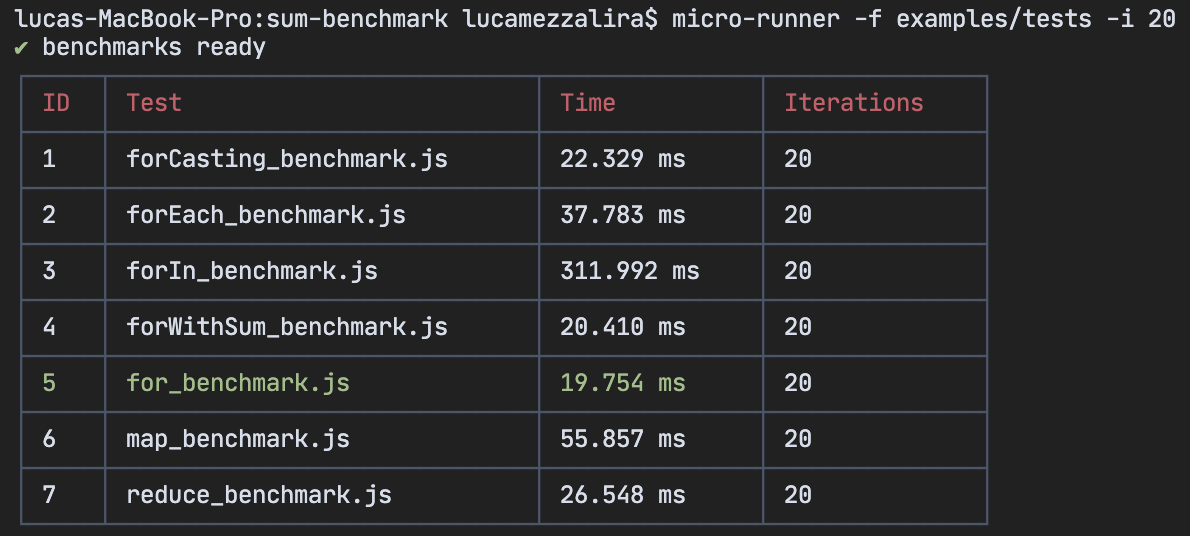
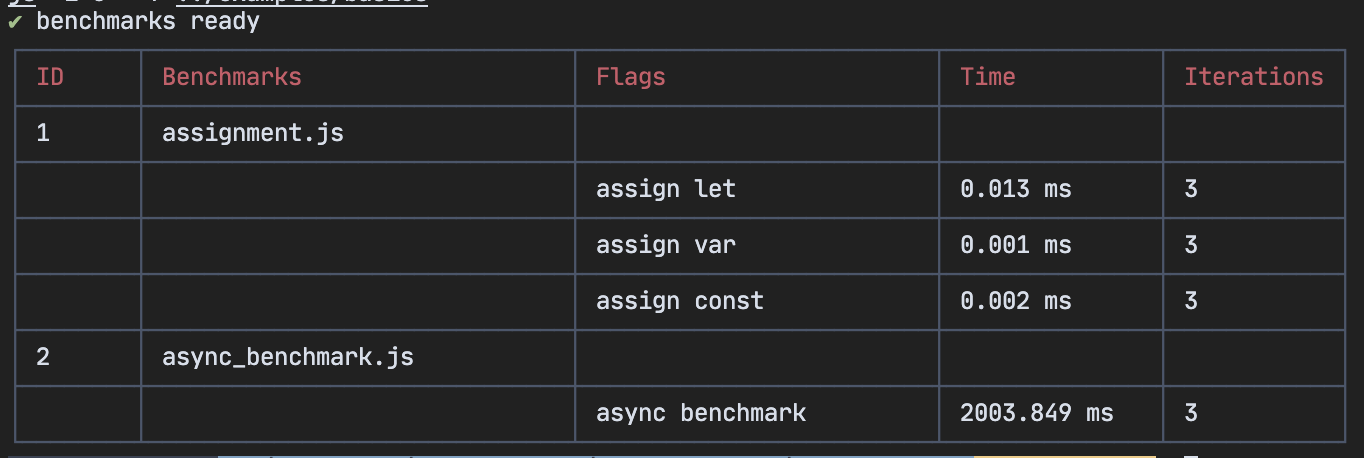
fixed issue with node <14 with mjs modules

diff --git a/micro-runner/cli/cli_output.js b/micro-runner/cli/cli_output.js
@@ -34,12 +34,17 @@ const analyze = (metrics, verbose) => {
         tmp_arr.push({
             id:metrics[i].id.toString(),
             benchmark: metrics[i].benchmark,
-            raw_time: 0
+            flag:"",
+            raw_time: "",
+            time: "",
+            iterations: ""
         })  
 
         for(let prop in total_tests_time){
             average = total_tests_time[prop]/metrics[i].iterations
             tmp_arr.push({
+                id:"",
+                benchmark: "",
                 flag: prop,
                 time: `${average.toFixed(3)} ms`,
                 raw_time: average.toFixed(3),
@@ -52,6 +57,7 @@ const analyze = (metrics, verbose) => {
                 Object.values(iteration).forEach(benchmark => {
                     tmp_arr.push({
                         id: `${metrics[i].id}.${index+1}`,
+                        benchmark: "",
                         flag: benchmark.flag,
                         time: `${benchmark.time.toFixed(3)} ms`,
                         raw_time: benchmark.time.toFixed(3),
@@ -62,35 +68,9 @@ const analyze = (metrics, verbose) => {
         }
     }
 
-    //TO FIX
-    //select_winners(tmp_arr, verbose);
-
     tmp_arr.forEach(value => {
         resultTable.push([value.id, value.benchmark, value.flag, value.time, value.iterations])
     })
-}
-
-const select_winners = (metrics_arr, isVerbose) => {
-    let winner, id;
-    const winners_arr = metrics_arr.slice();
-    winners_arr.sort((a,b) => a.raw_time - b.raw_time)
-    for(let i = 0; i < winners_arr.length; i++){
-        if(!Number.isInteger(Number(winners_arr[i].id))) continue; // check the id is integer otherwise is not an average
-        if(!winner) winner = winners_arr[i]; //assing the winner if is underfined
-        if(winner.raw_time === winners_arr[i].raw_time){
-            if(isVerbose){
-                id = (Number(winners_arr[i].id)-1) * (Number(winners_arr[i].iterations)+1)
-            } else {
-                id = Number(winners_arr[i].id)-1 
-            }
-
-            metrics_arr[id].id = colors.green(metrics_arr[id].id);
-            metrics_arr[id].benchmark = colors.green(metrics_arr[id].benchmark);
-            metrics_arr[id].time = colors.green(metrics_arr[id].time);
-        } else {
-            break
-        }
-    }
 }
 
 const render = () => {

diff --git a/micro-runner/index.js b/micro-runner/index.js
@@ -32,7 +32,10 @@ const init = async () => {
     } 
 
     const child = fork(BENCHMARK_LAUNCHER, [JSON.stringify({tests: tests, iterations: iterations, module: module_type})])
-    child.on("exit", function(){
+    child.on("exit", function(code){
+        if(code !== 0)
+            exit_error("Something went wrong! Please try again :(")
+        
         spinner.succeed("benchmarks ready")
         output.render();
         if(args.XLSoutput)
@@ -58,12 +61,10 @@ const spinner = ora({
 
 init();
 
-//=============== release micro-runner 0.3.3 ==================
-//TODO: fix winner alghoritm
-//=============== release micro-runner 0.4.0 ==================
+//=============== release micro-runner 0.3.4 ==================
 //TODO: replace child process with workers_threads
-//TODO: review benchmark.js way to compare tests (https://github.com/mathiasbynens/Benchmark.js/blob/d4e874f2c0956d11bd1187870c2655eb3a3ab692/benchmark.js#L1175-1194)
-//TODO: introduce ops/sec as additional metric (https://www.npmjs.com/package/ops-per-sec)
-//=============== release micro-runner 0.5.0 ==================
-//TODO: web server for testing in different devices
 //TODO: refactor analyze function in cli_output
+//TODO: review benchmark.js way to compare tests (https://github.com/mathiasbynens/Benchmark.js/blob/d4e874f2c0956d11bd1187870c2655eb3a3ab692/benchmark.js#L1175-1194)
+//=============== release micro-runner 0.4.0 ==================
+//TODO: introduce ops/sec as additional metric (https://www.npmjs.com/package/ops-per-sec)
+//TODO: web server for testing in different devices

diff --git a/micro-runner/tests_runner/mjs_tests_runner.js b/micro-runner/tests_runner/mjs_tests_runner.js
@@ -5,24 +5,35 @@ let test_no = 0;
 let benchmark;
 let iterations;
 
+process.on('unhandledRejection', error => {
+    process.exit(1)
+})
+
 async function runAsyncBenchmark(file, id){
     let benchmark_metrics = [];
     benchmark = await import(file);
-
+    
     for(let i = 0; i < iterations; i++){
-        
         if(!regex.test(Util.inspect(benchmark))){
             if(benchmark.run.constructor.name === "AsyncFunction"){
-                const benchmark_results = await benchmark.run()
-                benchmark_metrics.push(benchmark_results)
+                try{
+                    const benchmark_results = await benchmark.run()
+                    benchmark_metrics.push(benchmark_results)
+                } catch(err){
+                    console.error(err);
+                }
             } else {
                 benchmark_metrics.push(benchmark.run())
             }
         } else { 
             let test = new benchmark.default();
             if(test.constructor.name === "AsyncFunction"){
-                const benchmark_results = await test.run()
-                benchmark_metrics.push(benchmark_results)
+                try{
+                    const benchmark_results = await test.run()
+                    benchmark_metrics.push(benchmark_results)
+                } catch(err){
+                    console.error(err);
+                }
             } else {
                 benchmark_metrics.push(test.run())
             }
